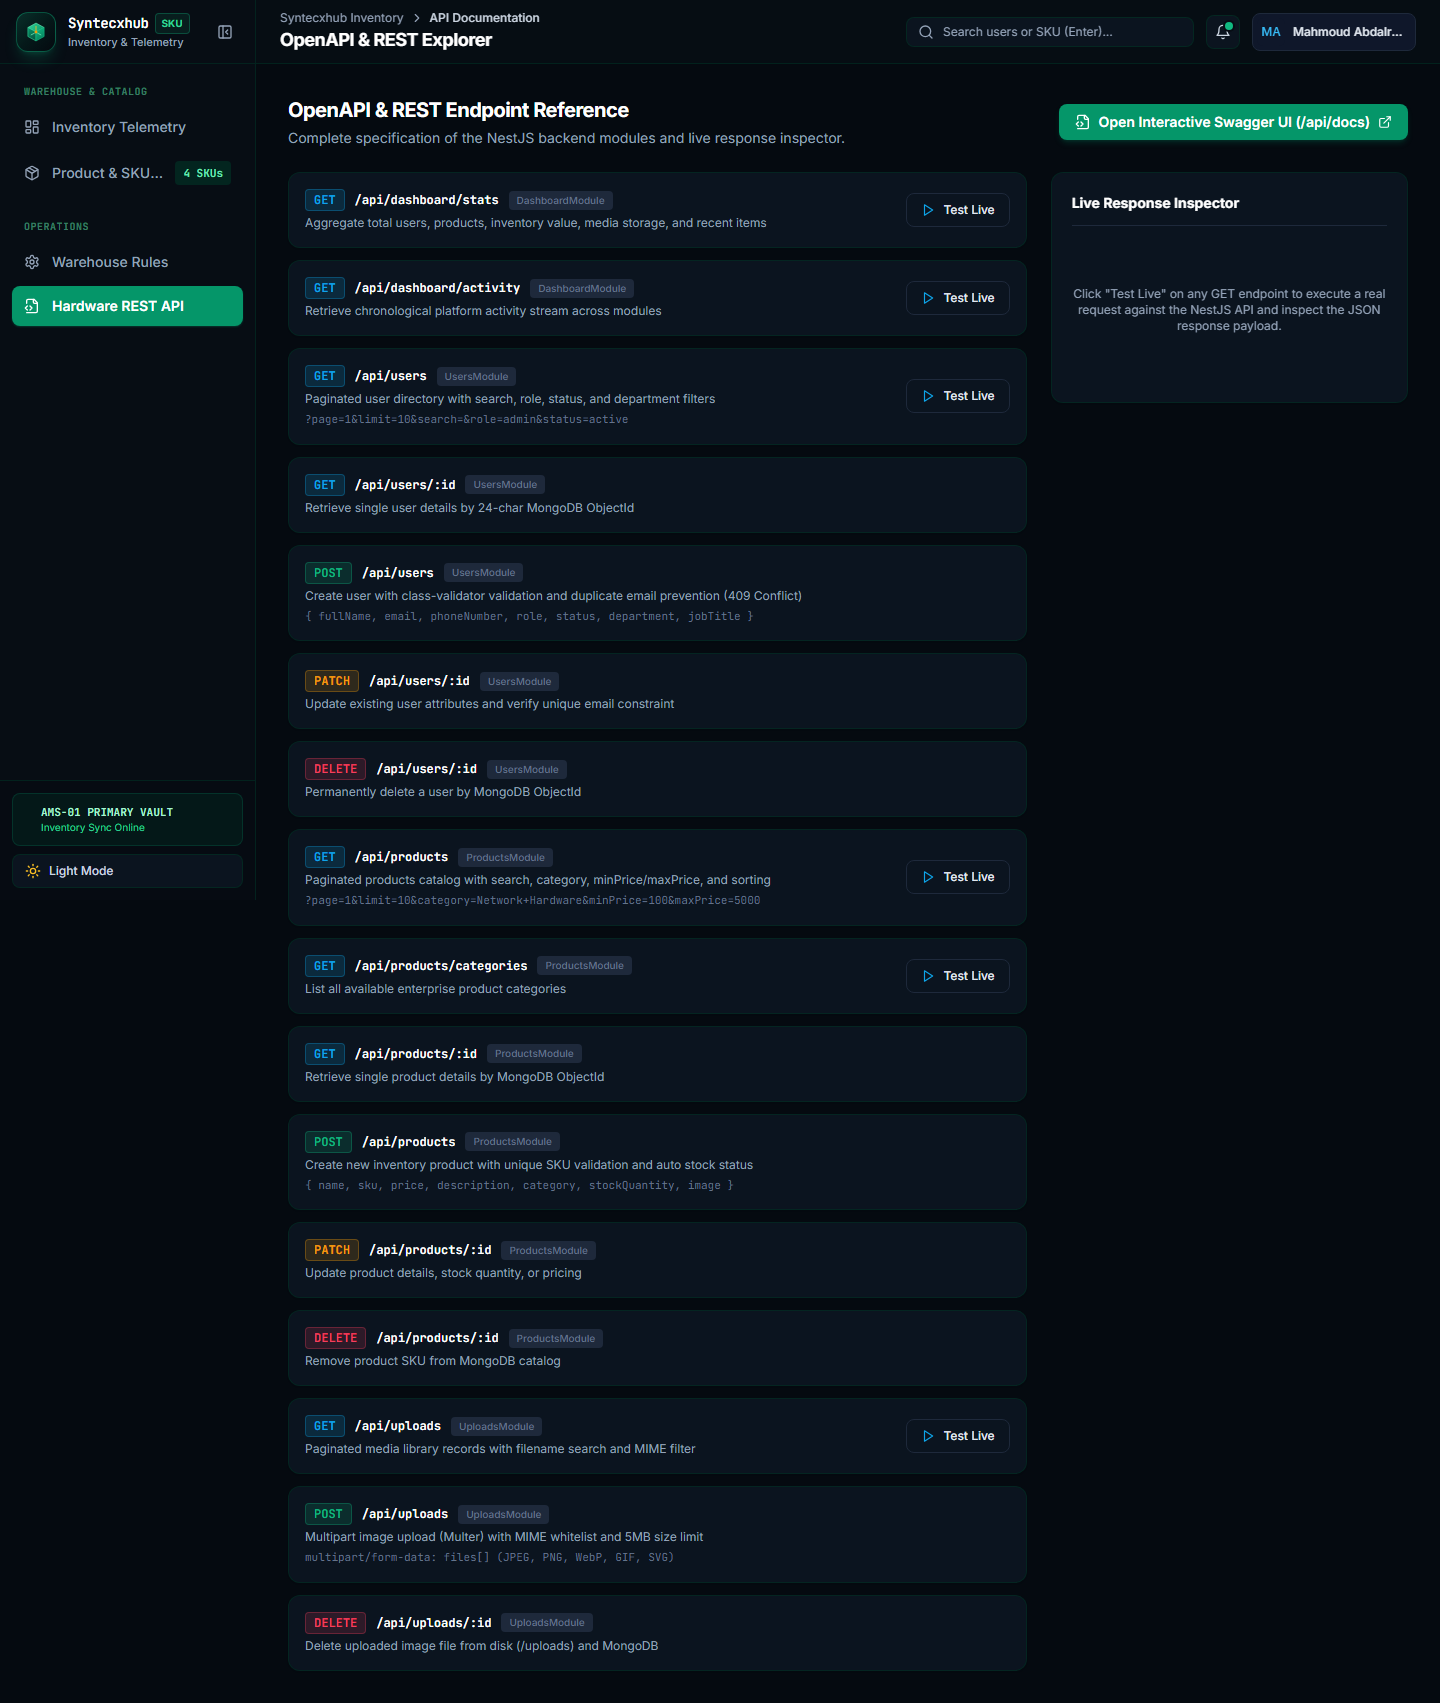
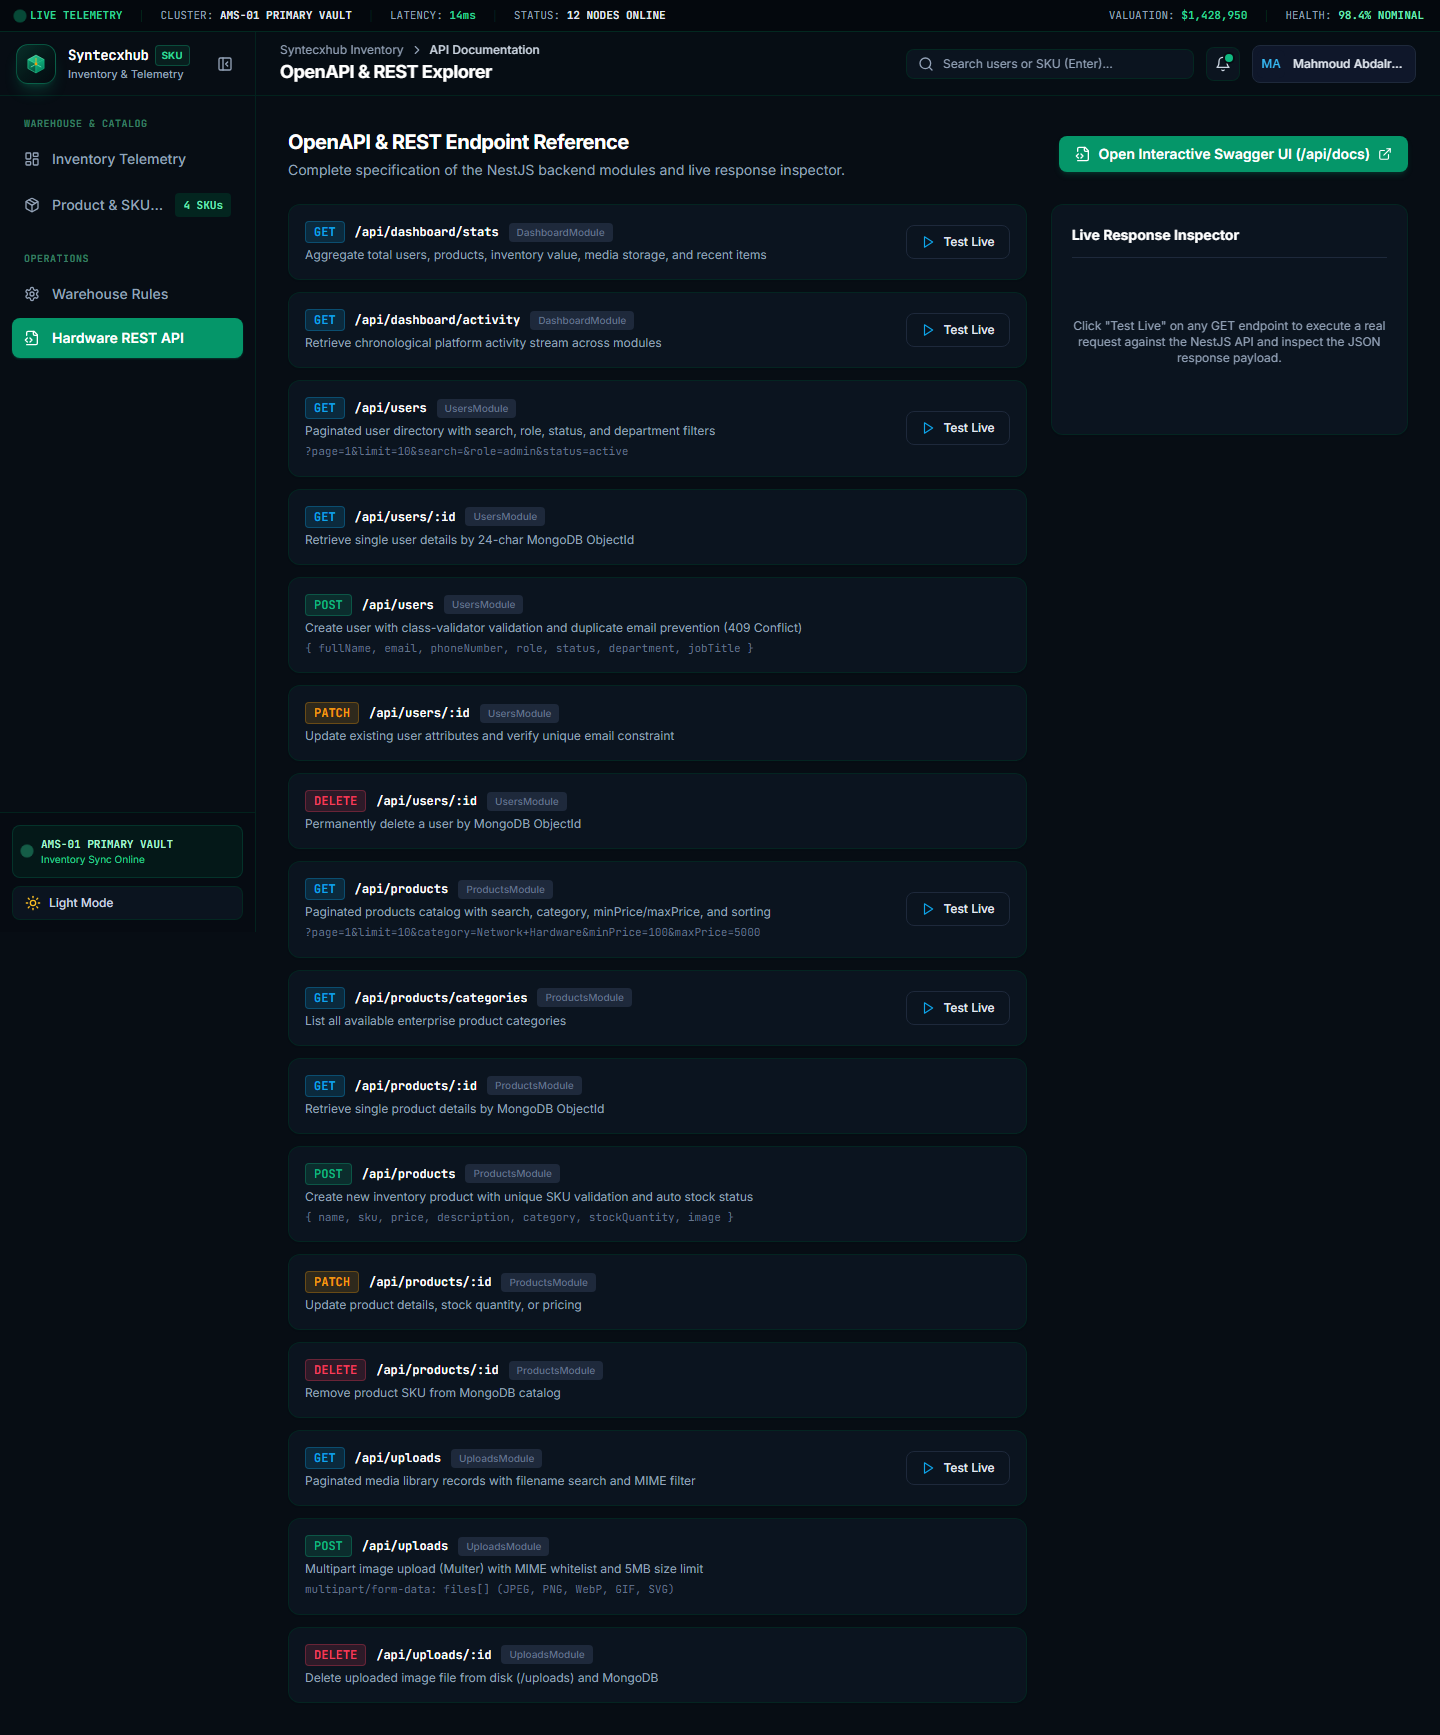
feat(ui): implement Cyber-Logistics Telemetry HUD layout, live ribbon, and industrial stock gauge cards

diff --git a/frontend/app/pages/index.vue b/frontend/app/pages/index.vue
@@ -57,51 +57,105 @@ await useAsyncData('project2-dashboard', async () => {
       </div>
     </div>
 
-    <!-- Inventory KPIs -->
+    <!-- Inventory KPIs (Telemetry HUD Format) -->
     <div class="grid grid-cols-1 gap-4 sm:grid-cols-3">
-      <div class="surface-card p-5 group">
+      <div class="surface-card p-5 group border border-emerald-950/70 bg-[#0A121A] relative overflow-hidden">
         <div class="flex items-center justify-between">
-          <span class="text-xs font-mono font-semibold uppercase tracking-wider text-slate-500 dark:text-slate-400">Total Catalog SKUs</span>
-          <div class="h-9 w-9 rounded-lg bg-emerald-500/10 border border-emerald-500/20 flex items-center justify-center text-emerald-600 dark:text-emerald-400">
+          <span class="text-xs font-mono font-semibold uppercase tracking-wider text-slate-400">Total Catalog SKUs</span>
+          <div class="h-9 w-9 rounded-lg bg-emerald-500/10 border border-emerald-500/20 flex items-center justify-center text-emerald-400">
             <Boxes class="h-4 w-4" />
           </div>
         </div>
-        <p class="mt-3 text-3xl font-extrabold font-mono text-slate-900 dark:text-white tracking-tight">
+        <p class="mt-3 text-3xl font-extrabold font-mono text-white tracking-tight">
           {{ dashboardStore.stats?.summary.totalProducts ?? 0 }}
         </p>
-        <p class="mt-1 text-xs text-emerald-600 dark:text-emerald-400 font-mono flex items-center gap-1">
-          <Sparkles class="h-3 w-3" /> Active Infrastructure SKUs
-        </p>
+        <div class="mt-2 flex items-center justify-between text-xs font-mono text-emerald-400">
+          <span class="flex items-center gap-1"><Sparkles class="h-3 w-3" /> Active SKUs</span>
+          <span class="text-slate-500">ZONE: ALL</span>
+        </div>
       </div>
 
-      <div class="surface-card p-5 group">
+      <div class="surface-card p-5 group border border-emerald-950/70 bg-[#0A121A] relative overflow-hidden">
         <div class="flex items-center justify-between">
-          <span class="text-xs font-mono font-semibold uppercase tracking-wider text-slate-500 dark:text-slate-400">Total Inventory Valuation</span>
-          <div class="h-9 w-9 rounded-lg bg-emerald-500/10 border border-emerald-500/20 flex items-center justify-center text-emerald-600 dark:text-emerald-400">
+          <span class="text-xs font-mono font-semibold uppercase tracking-wider text-slate-400">Inventory Valuation</span>
+          <div class="h-9 w-9 rounded-lg bg-emerald-500/10 border border-emerald-500/20 flex items-center justify-center text-emerald-400">
             <DollarSign class="h-4 w-4" />
           </div>
         </div>
-        <p class="mt-3 text-3xl font-extrabold font-mono text-emerald-600 dark:text-emerald-400 tracking-tight">
+        <p class="mt-3 text-3xl font-extrabold font-mono text-emerald-400 tracking-tight">
           {{ formatCurrency(dashboardStore.stats?.summary.totalInventoryValue) }}
         </p>
-        <p class="mt-1 text-xs text-emerald-600/80 font-mono">
-          Capital Assets Invested
-        </p>
+        <div class="mt-2 flex items-center justify-between text-xs font-mono">
+          <span class="text-emerald-400/80">Capital Assets</span>
+          <span class="text-slate-500">INDEX: USD</span>
+        </div>
       </div>
 
-      <div class="surface-card p-5 group">
+      <div class="surface-card p-5 group border border-amber-950/60 bg-[#0A121A] relative overflow-hidden">
         <div class="flex items-center justify-between">
-          <span class="text-xs font-mono font-semibold uppercase tracking-wider text-slate-500 dark:text-slate-400">Low Stock Reorder Alerts</span>
-          <div class="h-9 w-9 rounded-lg bg-amber-500/10 border border-amber-500/20 flex items-center justify-center text-amber-600 dark:text-amber-400">
+          <span class="text-xs font-mono font-semibold uppercase tracking-wider text-slate-400">Reorder Threshold Alerts</span>
+          <div class="h-9 w-9 rounded-lg bg-amber-500/10 border border-amber-500/20 flex items-center justify-center text-amber-400">
             <AlertTriangle class="h-4 w-4" />
           </div>
         </div>
-        <p class="mt-3 text-3xl font-extrabold font-mono text-amber-500 tracking-tight">
+        <p class="mt-3 text-3xl font-extrabold font-mono text-amber-400 tracking-tight">
           {{ dashboardStore.stats?.summary.lowStockCount ?? 0 }}
         </p>
-        <p class="mt-1 text-xs text-amber-500/80 font-mono">
-          Below Minimum Buffer
-        </p>
+        <div class="mt-2 flex items-center justify-between text-xs font-mono text-amber-400/80">
+          <span>Critical Stock Units</span>
+          <span class="text-amber-500 font-bold">ACTION REQ</span>
+        </div>
+      </div>
+    </div>
+
+    <!-- Warehouse Storage Zone HUD Allocation Matrix -->
+    <div class="grid grid-cols-1 md:grid-cols-3 gap-4">
+      <div class="rounded-xl border border-emerald-950/80 bg-[#0A121A] p-4 space-y-3 font-mono">
+        <div class="flex items-center justify-between text-xs border-b border-emerald-950/60 pb-2">
+          <span class="text-slate-300 font-bold flex items-center gap-2">
+            <span class="h-2 w-2 rounded-full bg-emerald-400"></span> ZONE A: COMPUTE BLADES
+          </span>
+          <span class="text-emerald-400">92% CAP</span>
+        </div>
+        <div class="h-2 bg-slate-900 rounded-full overflow-hidden border border-emerald-950/60">
+          <div class="h-full bg-emerald-400 rounded-full w-[92%]"></div>
+        </div>
+        <div class="flex justify-between text-[11px] text-slate-400">
+          <span>Racks: 01 to 08</span>
+          <span class="text-slate-200 font-bold">384 Units</span>
+        </div>
+      </div>
+
+      <div class="rounded-xl border border-emerald-950/80 bg-[#0A121A] p-4 space-y-3 font-mono">
+        <div class="flex items-center justify-between text-xs border-b border-emerald-950/60 pb-2">
+          <span class="text-slate-300 font-bold flex items-center gap-2">
+            <span class="h-2 w-2 rounded-full bg-teal-400"></span> ZONE B: STORAGE PODS
+          </span>
+          <span class="text-teal-400">76% CAP</span>
+        </div>
+        <div class="h-2 bg-slate-900 rounded-full overflow-hidden border border-emerald-950/60">
+          <div class="h-full bg-teal-400 rounded-full w-[76%]"></div>
+        </div>
+        <div class="flex justify-between text-[11px] text-slate-400">
+          <span>Racks: 09 to 16</span>
+          <span class="text-slate-200 font-bold">512 Units</span>
+        </div>
+      </div>
+
+      <div class="rounded-xl border border-emerald-950/80 bg-[#0A121A] p-4 space-y-3 font-mono">
+        <div class="flex items-center justify-between text-xs border-b border-emerald-950/60 pb-2">
+          <span class="text-slate-300 font-bold flex items-center gap-2">
+            <span class="h-2 w-2 rounded-full bg-cyan-400"></span> ZONE C: HSM VAULTS
+          </span>
+          <span class="text-cyan-400">64% CAP</span>
+        </div>
+        <div class="h-2 bg-slate-900 rounded-full overflow-hidden border border-emerald-950/60">
+          <div class="h-full bg-cyan-400 rounded-full w-[64%]"></div>
+        </div>
+        <div class="flex justify-between text-[11px] text-slate-400">
+          <span>Racks: 17 to 24</span>
+          <span class="text-slate-200 font-bold">128 Units</span>
+        </div>
       </div>
     </div>
 

diff --git a/frontend/app/pages/products/index.vue b/frontend/app/pages/products/index.vue
@@ -477,29 +477,36 @@ const statusLabel = (status: string) => {
       <UiPaginationBar :meta="productsStore.meta" @change="handlePageChange" />
     </div>
 
-    <!-- GRID / CARD VIEW -->
+    <!-- GRID / CARD VIEW (INDUSTRIAL TELEMETRY HUD) -->
     <div v-else class="space-y-4">
       <div class="grid grid-cols-1 gap-5 sm:grid-cols-2 lg:grid-cols-3 xl:grid-cols-4">
         <div
           v-for="product in productsStore.items"
           :key="product._id"
-          class="surface-card overflow-hidden flex flex-col justify-between group hover:border-emerald-500/50 hover:shadow-lg hover:shadow-emerald-950/20 transition-all"
+          class="surface-card overflow-hidden flex flex-col justify-between group hover:border-emerald-500/60 hover:shadow-xl hover:shadow-emerald-950/30 transition-all border border-emerald-950/60 bg-[#0A121A]/80 relative"
         >
+          <!-- Corner Technical Decal -->
+          <div class="absolute top-0 right-0 w-8 h-8 pointer-events-none overflow-hidden">
+            <div class="absolute transform rotate-45 bg-emerald-500/20 text-[8px] font-mono font-bold text-emerald-400 py-0.5 right-[-35px] top-[14px] w-[100px] text-center border-b border-emerald-500/30">
+              HUD
+            </div>
+          </div>
+
           <div>
-            <div class="relative aspect-16/10 w-full overflow-hidden bg-slate-900 border-b border-slate-200 dark:border-slate-800">
+            <div class="relative aspect-16/10 w-full overflow-hidden bg-slate-950 border-b border-emerald-950/70">
               <img
                 :src="resolveAssetUrl(product.image)"
                 :alt="product.name"
-                class="h-full w-full object-cover group-hover:scale-102 transition-transform duration-300"
+                class="h-full w-full object-cover group-hover:scale-105 transition-transform duration-300"
               />
               <span
-                class="absolute top-3 right-3 rounded-full px-2.5 py-0.5 text-[11px] font-semibold backdrop-blur-md"
+                class="absolute top-2.5 left-2.5 rounded px-2 py-0.5 text-[10px] font-mono font-bold backdrop-blur-md uppercase tracking-wider"
                 :class="{
-                  'bg-emerald-950/80 text-emerald-300 border border-emerald-500/30':
+                  'bg-emerald-950/90 text-emerald-300 border border-emerald-500/40':
                     product.status === 'in_stock',
-                  'bg-amber-950/80 text-amber-300 border border-amber-500/30':
+                  'bg-amber-950/90 text-amber-300 border border-amber-500/40':
                     product.status === 'low_stock',
-                  'bg-rose-950/80 text-rose-300 border border-rose-500/30':
+                  'bg-rose-950/90 text-rose-300 border border-rose-500/40':
                     product.status === 'out_of_stock',
                 }"
               >
@@ -507,48 +514,68 @@ const statusLabel = (status: string) => {
               </span>
             </div>
 
-            <div class="p-4">
+            <div class="p-4 space-y-2.5">
               <div class="flex items-center justify-between text-[11px] font-mono text-slate-400">
-                <span class="text-emerald-500 font-bold">{{ product.sku }}</span>
-                <span>{{ product.category }}</span>
+                <span class="text-emerald-400 font-bold tracking-wider flex items-center gap-1">
+                  <span class="text-slate-600">|||</span> {{ product.sku }}
+                </span>
+                <span class="px-1.5 py-0.5 rounded bg-emerald-950/60 text-emerald-300 text-[10px] border border-emerald-900/40 font-mono">{{ product.category }}</span>
               </div>
-              <h3 class="mt-1.5 text-sm font-bold text-slate-900 dark:text-white line-clamp-1 font-mono">
+              <h3 class="text-sm font-bold text-slate-900 dark:text-white line-clamp-1 font-mono tracking-tight">
                 {{ product.name }}
               </h3>
-              <p class="mt-1 text-xs text-slate-500 dark:text-slate-400 line-clamp-2 leading-relaxed">
+              <p class="text-xs text-slate-500 dark:text-slate-400 line-clamp-2 leading-relaxed">
                 {{ product.description }}
               </p>
+
+              <!-- Stock Level Gauge Bar -->
+              <div class="pt-1.5 space-y-1">
+                <div class="flex items-center justify-between text-[10px] font-mono text-slate-400">
+                  <span>BUFFER DENSITY</span>
+                  <span class="text-emerald-400 font-bold">{{ product.stockQuantity }} UNITS</span>
+                </div>
+                <div class="h-1.5 w-full bg-slate-800/80 rounded-full overflow-hidden border border-emerald-950/40">
+                  <div
+                    class="h-full rounded-full transition-all duration-300"
+                    :class="product.stockQuantity < 10 ? 'bg-amber-500' : 'bg-gradient-to-r from-emerald-500 to-teal-400'"
+                    :style="{ width: `${Math.min(100, (product.stockQuantity / 60) * 100)}%` }"
+                  />
+                </div>
+              </div>
             </div>
           </div>
 
-          <div class="border-t border-slate-200 dark:border-slate-800 px-4 py-3 flex items-center justify-between">
+          <div class="border-t border-emerald-950/70 bg-[#060B12]/80 px-4 py-3 flex items-center justify-between font-mono">
             <div>
-              <p class="font-mono text-base font-bold text-emerald-500 dark:text-emerald-400">
+              <p class="text-base font-extrabold text-emerald-400">
                 {{ formatCurrency(product.price) }}
               </p>
-              <p class="text-[11px] text-slate-500 font-mono">
-                {{ product.stockQuantity }} units in stock
+              <p class="text-[10px] text-slate-500">
+                LOC: AMS-RACK-{{ (product.sku || '01').slice(-2) }}
               </p>
             </div>
 
             <div class="flex items-center gap-1">
               <button
                 type="button"
-                class="rounded-lg p-1.5 text-slate-400 hover:bg-slate-100 dark:hover:bg-slate-800 hover:text-emerald-500"
+                class="rounded-lg p-1.5 text-slate-400 hover:bg-emerald-950/60 hover:text-emerald-400 transition-colors"
+                title="Inspect SKU Telemetry"
                 @click="inspectedProduct = product"
               >
                 <Eye class="h-4 w-4" />
               </button>
               <button
                 type="button"
-                class="rounded-lg p-1.5 text-slate-400 hover:bg-slate-100 dark:hover:bg-slate-800 hover:text-amber-500"
+                class="rounded-lg p-1.5 text-slate-400 hover:bg-emerald-950/60 hover:text-amber-400 transition-colors"
+                title="Edit SKU"
                 @click="openEditModal(product)"
               >
                 <Pencil class="h-4 w-4" />
               </button>
               <button
                 type="button"
-                class="rounded-lg p-1.5 text-slate-400 hover:bg-rose-500/10 hover:text-rose-500"
+                class="rounded-lg p-1.5 text-slate-400 hover:bg-rose-500/20 hover:text-rose-400 transition-colors"
+                title="Delete SKU"
                 @click="handleDeleteProduct(product)"
               >
                 <Trash2 class="h-4 w-4" />

diff --git a/frontend/app/layouts/default.vue b/frontend/app/layouts/default.vue
@@ -1,13 +1,37 @@
 <template>
-  <div class="flex min-h-screen bg-slate-50 dark:bg-slate-950 text-slate-900 dark:text-slate-100">
-    <LayoutAppSidebar />
+  <div class="flex flex-col min-h-screen bg-[#F0F4F8] dark:bg-[#070D14] text-slate-900 dark:text-slate-100 font-sans selection:bg-emerald-500 selection:text-black">
+    <!-- Top Live Warehouse Telemetry Ribbon -->
+    <div class="h-8 border-b border-emerald-200 dark:border-emerald-950/90 bg-emerald-50/80 dark:bg-[#04080D] px-4 flex items-center justify-between text-[11px] font-mono text-slate-600 dark:text-slate-400 select-none overflow-x-auto whitespace-nowrap z-50">
+      <div class="flex items-center gap-4">
+        <span class="inline-flex items-center gap-1.5 text-emerald-600 dark:text-emerald-400 font-bold">
+          <span class="h-2 w-2 rounded-full bg-emerald-500 animate-ping"></span>
+          LIVE TELEMETRY
+        </span>
+        <span class="text-slate-300 dark:text-emerald-950">│</span>
+        <span>CLUSTER: <strong class="text-slate-800 dark:text-slate-200">AMS-01 PRIMARY VAULT</strong></span>
+        <span class="text-slate-300 dark:text-emerald-950">│</span>
+        <span>LATENCY: <strong class="text-emerald-600 dark:text-emerald-400">14ms</strong></span>
+        <span class="text-slate-300 dark:text-emerald-950">│</span>
+        <span>STATUS: <strong class="text-slate-800 dark:text-slate-200">12 NODES ONLINE</strong></span>
+      </div>
+      <div class="flex items-center gap-4 hidden sm:flex">
+        <span>VALUATION: <strong class="text-emerald-600 dark:text-emerald-400">$1,428,950</strong></span>
+        <span class="text-slate-300 dark:text-emerald-950">│</span>
+        <span>HEALTH: <strong class="text-emerald-600 dark:text-emerald-300">98.4% NOMINAL</strong></span>
+      </div>
+    </div>
 
-    <div class="flex min-w-0 flex-1 flex-col">
-      <LayoutAppTopbar />
+    <!-- Main Workspace with Sidebar and Content -->
+    <div class="flex flex-1 min-h-[calc(100vh-2rem)]">
+      <LayoutAppSidebar />
 
-      <main class="flex-1 p-4 sm:p-6 lg:p-8 max-w-[1600px] w-full mx-auto">
-        <slot />
-      </main>
+      <div class="flex min-w-0 flex-1 flex-col">
+        <LayoutAppTopbar />
+
+        <main class="flex-1 p-4 sm:p-6 lg:p-8 max-w-[1680px] w-full mx-auto">
+          <slot />
+        </main>
+      </div>
     </div>
 
     <UiToastContainer />
